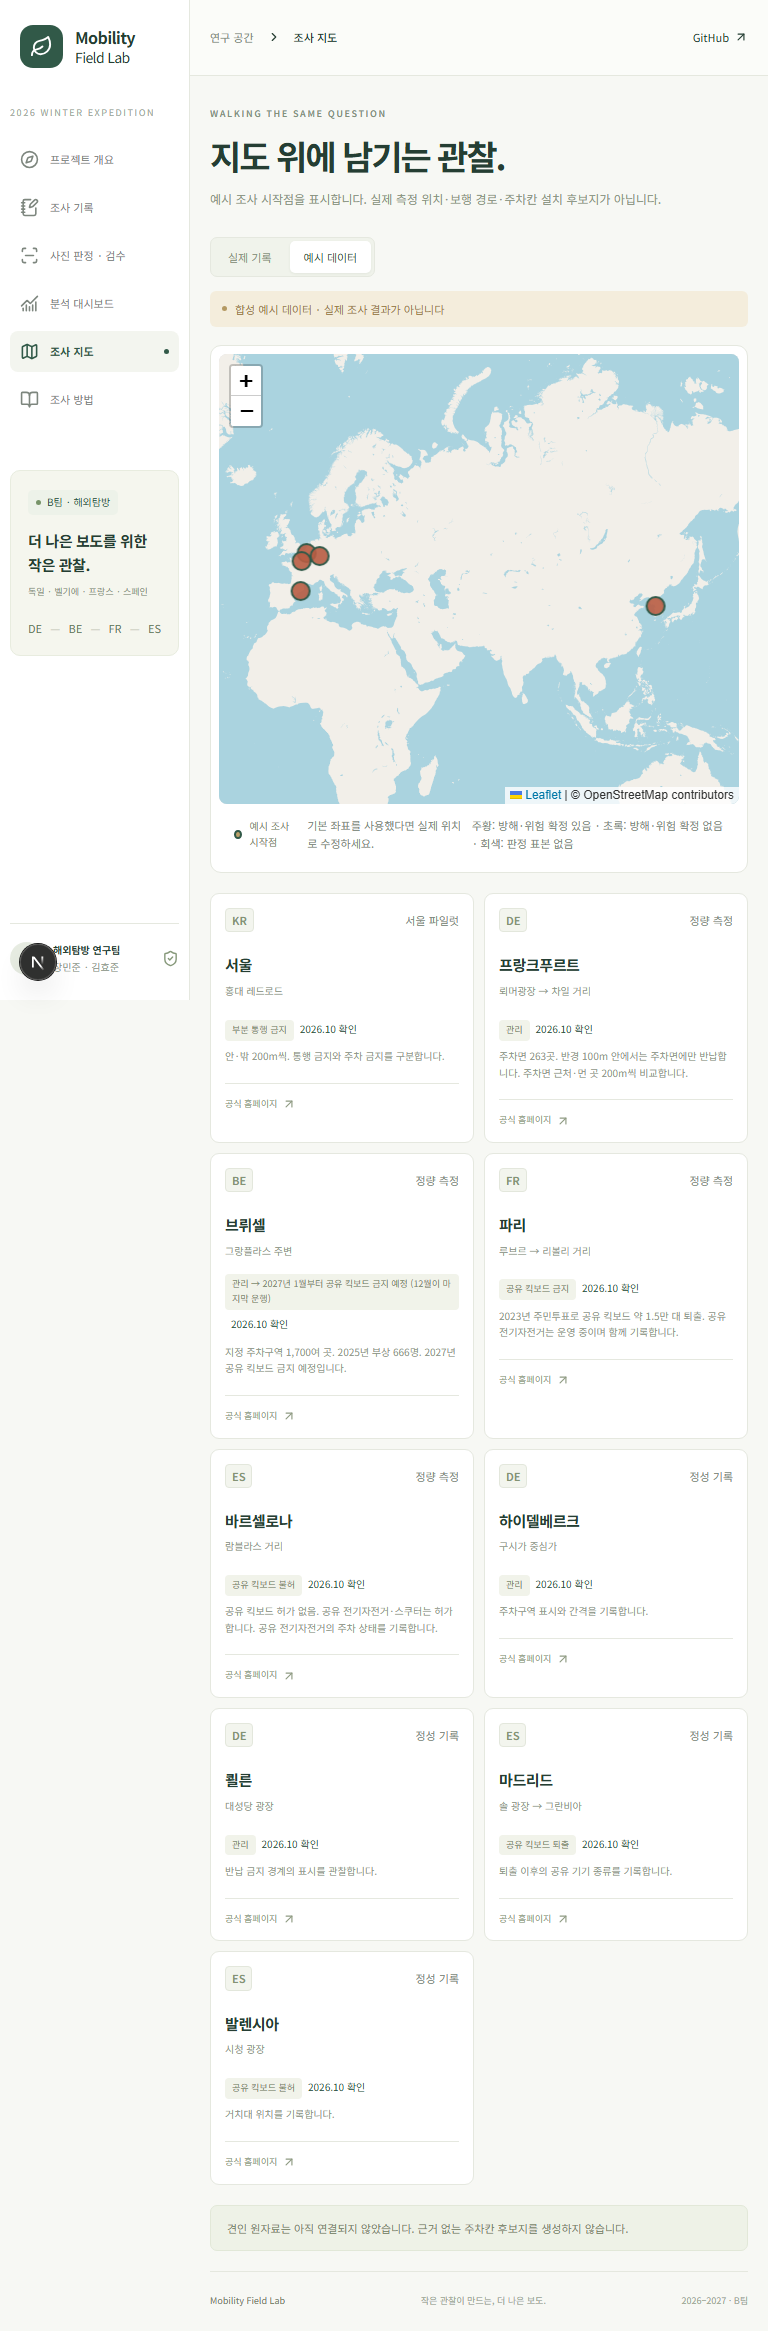
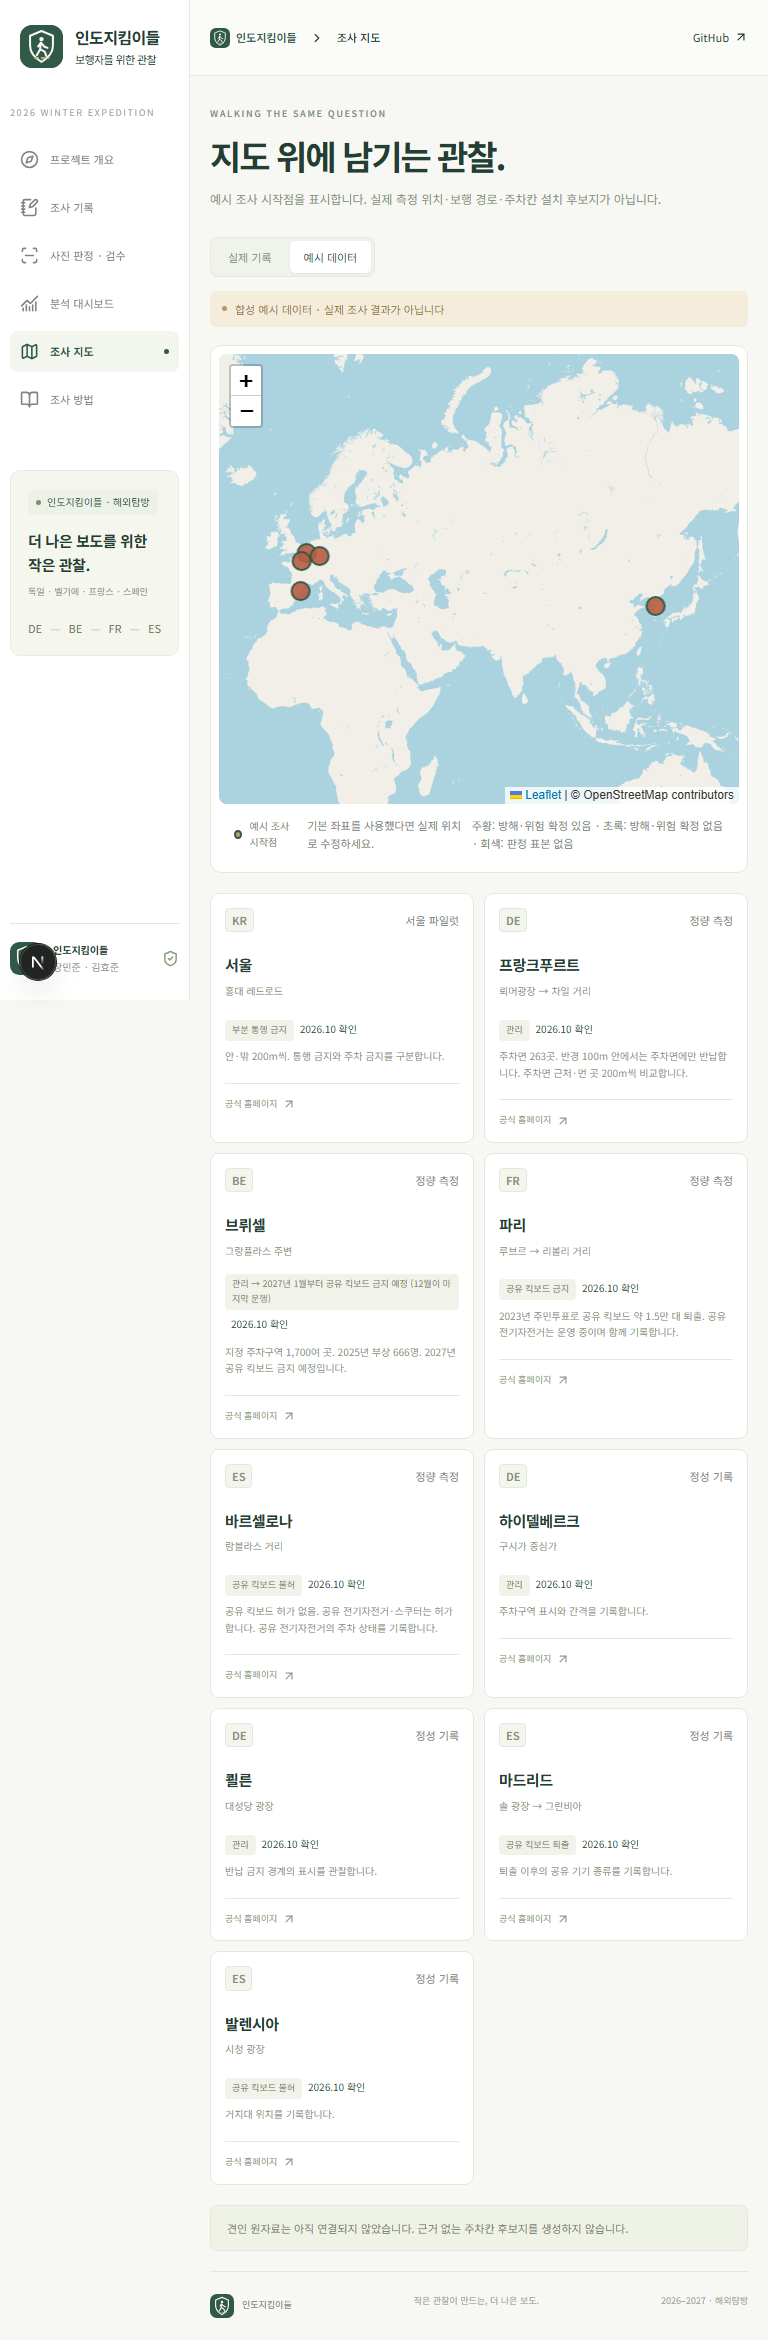
feat: brand site as sidewalk guardians team

diff --git a/src/features/FieldLab.tsx b/src/features/FieldLab.tsx
@@ -15,7 +15,6 @@ import {
   Download,
   Check,
   Globe2,
-  Leaf,
   ShieldCheck,
   Menu,
   Upload,
@@ -226,6 +225,7 @@ export default function FieldLab() {
       <aside className={"sidebar " + (menu ? "open" : "")}>
         <a
           className="brand"
+          aria-label="인도지킴이들 · 프로젝트 개요"
           href="#"
           onClick={(e) => {
             e.preventDefault();
@@ -233,10 +233,15 @@ export default function FieldLab() {
           }}
         >
           <span className="brand-mark">
-            <Leaf size={23} />
+            <img
+              src={(process.env.NEXT_PUBLIC_BASE_PATH ?? "") + "/team-logo.svg"}
+              alt=""
+              width={43}
+              height={43}
+            />
           </span>
           <span>
-            Mobility<span className="brand-light">Field Lab</span>
+            인도지킴이들<span className="brand-light">보행자를 위한 관찰</span>
           </span>
         </a>
         <div className="workspace-label">2026 WINTER EXPEDITION</div>
@@ -256,7 +261,7 @@ export default function FieldLab() {
         <div className="sidebar-card">
           <span className="pill">
             <span />
-            B팀 · 해외탐방
+            인도지킴이들 · 해외탐방
           </span>
           <h3>
             더 나은 보도를 위한
@@ -269,9 +274,16 @@ export default function FieldLab() {
           </div>
         </div>
         <div className="sidebar-bottom">
-          <span className="avatar">M</span>
+          <span className="avatar">
+            <img
+              src={(process.env.NEXT_PUBLIC_BASE_PATH ?? "") + "/team-logo.svg"}
+              alt=""
+              width={33}
+              height={33}
+            />
+          </span>
           <div>
-            <strong>해외탐방 연구팀</strong>
+            <strong>인도지킴이들</strong>
             <span>장민준 · 김효준</span>
           </div>
           <ShieldCheck size={17} />
@@ -287,7 +299,17 @@ export default function FieldLab() {
             >
               <Menu size={22} />
             </button>
-            <span className="muted">연구 공간</span>
+            <span className="topbar-team">
+              <img
+                src={
+                  (process.env.NEXT_PUBLIC_BASE_PATH ?? "") + "/team-logo.svg"
+                }
+                alt=""
+                width={20}
+                height={20}
+              />
+              인도지킴이들
+            </span>
             <ChevronRight size={14} />
             <strong>{nav.find((n) => n.id === page)?.label}</strong>
           </div>
@@ -1344,9 +1366,19 @@ export default function FieldLab() {
             </>
           )}
           <footer className="footer">
-            <span>Mobility Field Lab</span>
+            <span className="footer-brand">
+              <img
+                src={
+                  (process.env.NEXT_PUBLIC_BASE_PATH ?? "") + "/team-logo.svg"
+                }
+                alt=""
+                width={24}
+                height={24}
+              />
+              인도지킴이들
+            </span>
             <span>작은 관찰이 만드는, 더 나은 보도.</span>
-            <span>2026–2027 · B팀</span>
+            <span>2026–2027 · 해외탐방</span>
           </footer>
         </div>
       </main>

diff --git a/src/app/globals.css b/src/app/globals.css
@@ -105,7 +105,32 @@ h3 {
 .brand-light {
   display: block;
   font-weight: 400;
-  font-size: 16px;
+  font-size: 11px;
+  margin-top: 4px;
+}
+.brand > span:last-child {
+  white-space: nowrap;
+}
+.brand-mark {
+  flex-shrink: 0;
+}
+.brand-mark img,
+.avatar img {
+  display: block;
+}
+.footer-brand {
+  display: inline-flex;
+  align-items: center;
+  gap: 8px;
+}
+.topbar-team {
+  display: inline-flex;
+  align-items: center;
+  gap: 6px;
+  white-space: nowrap;
+  color: var(--green);
+  font-size: 11px;
+  font-weight: 600;
 }
 .workspace-label {
   font-size: 9px;
@@ -1244,7 +1269,7 @@ fieldset {
     font-size: 16px;
   }
   .brand-light {
-    font-size: 14px;
+    font-size: 11px;
   }
   main {
     margin-left: 190px;

diff --git a/src/app/layout.tsx b/src/app/layout.tsx
@@ -1,8 +1,10 @@
 import type { Metadata } from "next";
 import "./globals.css";
 export const metadata: Metadata = {
-  title: "Mobility Field Lab · 거리에서 찾는 답",
-  description: "공유 이동수단 현장조사와 독립 검수 · 해외탐방 프로젝트",
+  title: "인도지킴이들 · 거리에서 찾는 답",
+  description:
+    "인도지킴이들 · 보행자를 위한 공유 이동수단 현장조사와 독립 검수",
+  icons: { icon: (process.env.NEXT_PUBLIC_BASE_PATH ?? "") + "/team-logo.svg" },
 };
 export default function RootLayout({
   children,
